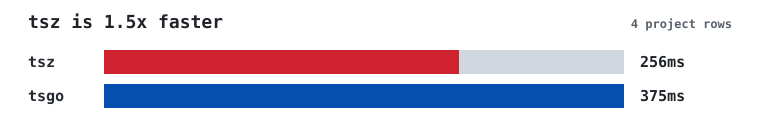
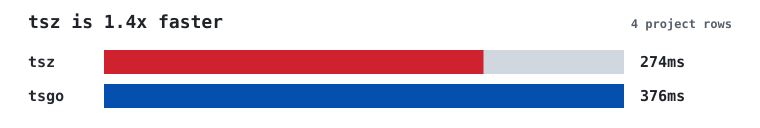
chore(readme): refresh benchmark image and stats (#17015)
* chore(readme): refresh benchmark image and stats

* chore(readme): keep fourslash at 6,558; the snapshot figure is load-dependent

`scripts/refresh-readme.py` rewrites the fourslash progress line from
`scripts/fourslash/fourslash-snapshot.json`, which reports `passed: 6557,
failed: 5`. That file was last written at #17011 and its failure count is not
trustworthy: #17010 records that the snapshot counts passed-but-SLOW tests as
failures, so the number it yields moves with machine load rather than with the
compiler.

The measured figure is 6,559 / 6,562 -- the current cycle has 3 genuine
failures (importFixesWithPackageJsonInSideAnotherPackage,
importNameCodeFix_importType, autoImportProvider_importsMap1), not 5. Publishing
6,557 would be a regression against a number that is already 1 low.

Holding the previously published 6,558, the same revert #17071 and earlier
refreshes applied. The real fix is #17010; until then this line cannot be
generated.

---------

diff --git a/README.md b/README.md
@@ -73,7 +73,7 @@ test suite against it.
 
 <!-- CONFORMANCE_START -->
 ```
-Progress: [███████████████████░] 96.1% (11,574/12,043 runnable tests)
+Progress: [███████████████████░] 96.1% (11,575/12,043 runnable tests)
 Candidates: 12,585 (12,043 runnable, 507 unsupported, 35 skipped)
 ```
 <!-- CONFORMANCE_END -->
